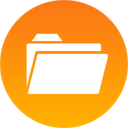
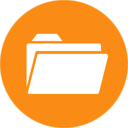
Second Real Update (v0.3.6)

Changed region(s): [[0.0938, 0.75, 0.9062, 1.0]]

diff --git a/README.md b/README.md
@@ -3,7 +3,9 @@ Files
 
 Fork of elfoxero's file manager (https://github.com/elfoxero/file-manager). 
 
-Using lastest Building Blocks (http://buildingfirefoxos.com/) and Faenza Icons (http://code.google.com/p/faenza-icon-theme).
+Using lastest Building Blocks (http://buildingfirefoxos.com/)
+
+Now using Nitrux Flattr Icons (https://github.com/NitruxSA/flattr-icons).
 
 App to manage, copy, move, delete, share and rename files and folders in the SDCard.
 
